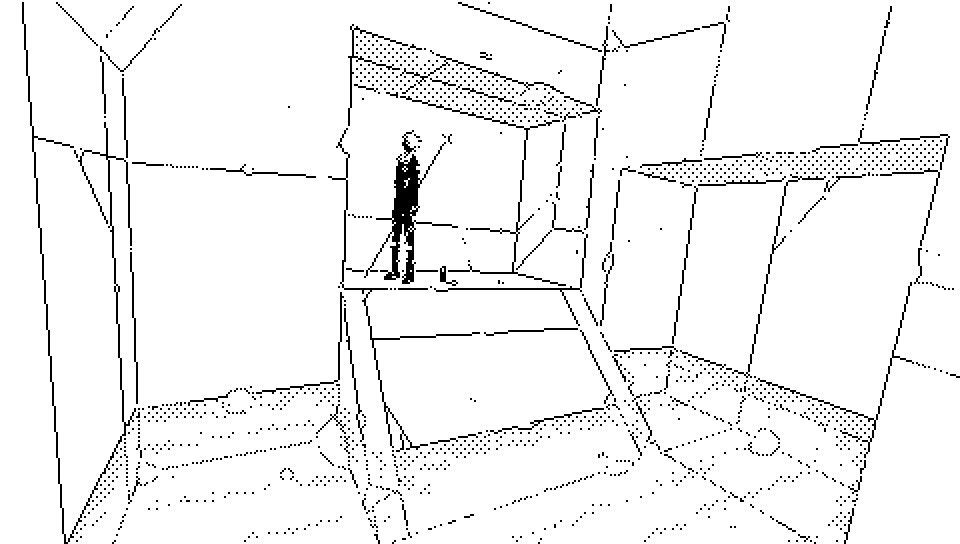
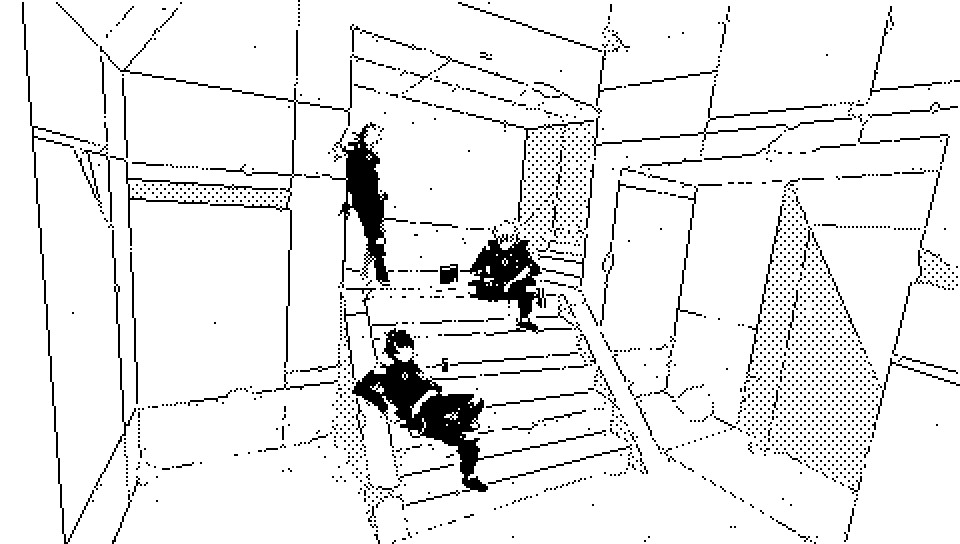
*

diff --git a/site/journal.html b/site/journal.html
@@ -10,7 +10,8 @@
 <meta property="og:title" content="journal"/><meta property="og:url" content="https://wiki.xxiivv.com/site/journal.html"/><meta property="og:image" content="https://wiki.xxiivv.com/media/services/rss.jpg"/><title>XXIIVV &mdash; journal</title></head><body>
 <header><a href="home.html"><img alt="XXIIVV" src="../media/icon/logo.svg"></a></header>
 <nav><ul><li><a href="meta.html">meta</a></li><li><a href="devine_lu_linvega.html" class="parent">devine lu linvega</a></li><li><a href="hundred_rabbits.html">hundred rabbits</a></li><li><a href="merveilles.html">merveilles</a></li></ul><ul><li><a href="directory.html">directory</a></li><li><a href="inventory.html">inventory</a></li><li><a href="journal.html" class="self">journal</a></li><li><a href="goals.html">goals</a></li><li><a href="mirrors.html">mirrors</a></li></ul><ul><li><a href="events.html">events</a></li><li><a href="blog.html">blog</a></li><li><a href="devlog.html">devlog</a></li><li><a href="now.html">now</a></li></ul></nav>
-<main><figure><img alt="Eaurison Hangars" src="../media/diary/691.jpg"><figcaption><a href='eaurison.html'>eaurison</a> &mdash; Eaurison Hangars</figcaption></figure>
+<main><figure><img alt="The Whole Gang" src="../media/diary/753.jpg"><figcaption><a href='characters.html'>characters</a> &mdash; The Whole Gang</figcaption></figure>
+<figure><img alt="Eaurison Hangars" src="../media/diary/691.jpg"><figcaption><a href='eaurison.html'>eaurison</a> &mdash; Eaurison Hangars</figcaption></figure>
 <figure><img alt="Quartz Spires" src="../media/diary/892.jpg"><figcaption><a href='vetetrandes.html'>vetetrandes</a> &mdash; Quartz Spires</figcaption></figure>
 <figure><img alt="Vestige Parkour" src="../media/diary/891.jpg"><figcaption><a href='duomic_oylaen.html'>duomic oylaen</a> &mdash; Vestige Parkour</figcaption></figure>
 <figure><img alt="Angard Bypass" src="../media/diary/890.jpg"><figcaption><a href='risan_aldeth.html'>risan aldeth</a> &mdash; Angard Bypass</figcaption></figure>
@@ -41,7 +42,6 @@
 <figure><img alt="Pickup Facade" src="../media/diary/799.jpg"><figcaption><a href='dilitriel.html'>dilitriel</a> &mdash; Pickup Facade</figcaption></figure>
 <figure><img alt="Windswept Depot" src="../media/diary/683.jpg"><figcaption><a href='risan_aldeth.html'>risan aldeth</a> &mdash; Windswept Depot</figcaption></figure>
 <figure><img alt="Welcoming back the Birds" src="../media/diary/748.jpg"><figcaption><a href='laeisth.html'>laeisth</a> &mdash; Welcoming back the Birds</figcaption></figure>
-<figure><img alt="The Plains" src="../media/diary/692.jpg"><figcaption><a href='es.html'>es</a> &mdash; The Plains</figcaption></figure>
 <ul></ul><p><b>incoming: </b><a href="home.html">home</a> <a href="about.html">about</a> <a href="events.html">events</a> <a href="2024.html">2024</a> <a href="2023.html">2023</a> </p></main>
 <footer>
 	<a href="uxn.html"><img src="../media/icon/uxn.png" alt="Uxn Powered"/></a> 

diff --git a/site/characters.html b/site/characters.html
@@ -10,7 +10,7 @@
 <meta property="og:title" content="characters"/><meta property="og:url" content="https://wiki.xxiivv.com/site/characters.html"/><meta property="og:image" content="https://wiki.xxiivv.com/media/diary/753.jpg"/><title>XXIIVV &mdash; characters</title></head><body>
 <header><a href="home.html"><img alt="XXIIVV" src="../media/icon/logo.svg"></a></header>
 <nav><ul><li><a href="polygonoscopy.html">polygonoscopy</a></li><li><a href="nereid.html">nereid</a></li><li><a href="typography.html">typography</a></li><li><a href="artwork.html">artwork</a></li><li><a href="neauismetica.html" class="parent">neauismetica</a></li></ul><ul><li><a href="neon_hermetism.html">neon hermetism</a></li><li><a href="dinaisth.html">dinaisth</a></li><li><a href="characters.html" class="self">characters</a></li></ul><ul><li><a href="neonev.html">neonev</a></li><li><a href="andes.html">andes</a></li><li><a href="rlionn.html">rlionn</a></li><li><a href="paradichlorisse.html">paradichlorisse</a></li><li><a href="yajnev.html">yajnev</a></li></ul></nav>
-<main><figure><img alt="Into the Duomic Substructure" src="../media/diary/753.jpg"><figcaption>Into the Duomic Substructure<span class="right">15T12</span></figcaption></figure>
+<main><figure><img alt="The Whole Gang" src="../media/diary/753.jpg"><figcaption>The Whole Gang<span class="right">19T12</span></figcaption></figure>
 <h2>Characters are a selection of residents of Dinaisth at the end of times.</h2>
 
 <p>The <a href='neauismetica.html'>Neauismetica</a> follows the handful of individuals who came to <a href='dinaisth.html'>Dinaisth</a> to challenge the <a href='ehrivevnv.html'>Ehrivevnv</a> dimensional puzzle, or complete the work of the <a href='neon_hermetism.html'>Neon Hermetists</a>. </p>

diff --git a/src/htm/journal.htm b/src/htm/journal.htm
@@ -1,3 +1,4 @@
+<figure><img alt="The Whole Gang" src="../media/diary/753.jpg"><figcaption><a href='characters.html'>characters</a> &mdash; The Whole Gang</figcaption></figure>
 <figure><img alt="Eaurison Hangars" src="../media/diary/691.jpg"><figcaption><a href='eaurison.html'>eaurison</a> &mdash; Eaurison Hangars</figcaption></figure>
 <figure><img alt="Quartz Spires" src="../media/diary/892.jpg"><figcaption><a href='vetetrandes.html'>vetetrandes</a> &mdash; Quartz Spires</figcaption></figure>
 <figure><img alt="Vestige Parkour" src="../media/diary/891.jpg"><figcaption><a href='duomic_oylaen.html'>duomic oylaen</a> &mdash; Vestige Parkour</figcaption></figure>
@@ -29,4 +30,3 @@
 <figure><img alt="Pickup Facade" src="../media/diary/799.jpg"><figcaption><a href='dilitriel.html'>dilitriel</a> &mdash; Pickup Facade</figcaption></figure>
 <figure><img alt="Windswept Depot" src="../media/diary/683.jpg"><figcaption><a href='risan_aldeth.html'>risan aldeth</a> &mdash; Windswept Depot</figcaption></figure>
 <figure><img alt="Welcoming back the Birds" src="../media/diary/748.jpg"><figcaption><a href='laeisth.html'>laeisth</a> &mdash; Welcoming back the Birds</figcaption></figure>
-<figure><img alt="The Plains" src="../media/diary/692.jpg"><figcaption><a href='es.html'>es</a> &mdash; The Plains</figcaption></figure>

diff --git a/etc/index.html b/etc/index.html
@@ -92,7 +92,7 @@ a438 <a href='notepad.tal.txt'>notepad.tal.txt</a>
 1634 <a href='varvara.controller.tal.txt'>varvara.controller.tal.txt</a>
 1444 <a href='vm.tal.txt'>vm.tal.txt</a>
 057c <a href='sixels.tal.txt'>sixels.tal.txt</a>
-9c59 <a href='noodle.tal.txt'>noodle.tal.txt</a>
+9f12 <a href='noodle.tal.txt'>noodle.tal.txt</a>
 04f6 <a href='themes.c.txt'>themes.c.txt</a>
 044a <a href='symbols.tal.txt'>symbols.tal.txt</a>
 ???? <a href='left.tal.txt'>left.tal.txt</a>
